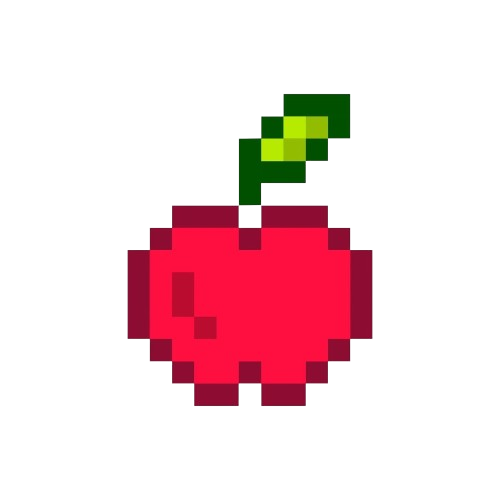
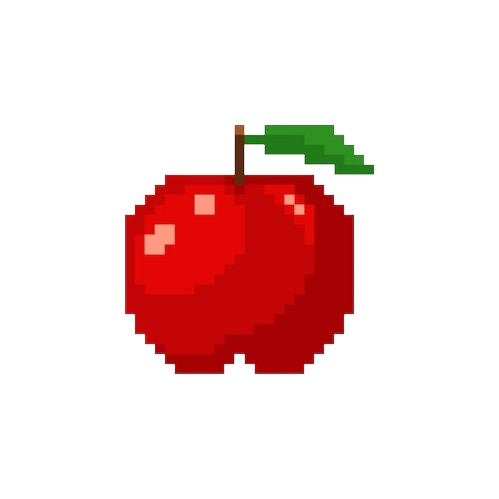
Assets Added

Changed region(s): [[0.2405, 0.1804, 0.7515, 0.8116]]

diff --git a/style.css b/style.css
@@ -42,7 +42,10 @@ body{
 }
 
 .food{
-    background-color: #d84242;
+    background-image: url("Assets/Imgs/apple.png");
+    width: 100%;
+    height: 100%;
+    background-size: 100%;
 }
 
 .entrance-message, .game-over-message, .final-score-message {
@@ -57,6 +60,19 @@ body{
     color: #344e41;
     
     font-size: 60px;
+}
+
+.entrance-message p {
+    margin-top: 285px;
+    border-top: 2px solid #344e41;
+}
+
+.entrance-message img{
+    position: absolute;
+    width: 300px;
+    margin-top: -150px;
+    opacity: 80%;
+
 }
 
 .final-score-message{
@@ -132,8 +148,8 @@ body{
 }
 
 .buttons button.selected{
-    background-color: #ff928b;
-    color: #ffffff;
+    background-color: #fec3a6;
+    color: #e06c9f;
 }
 
 /* Asthetics */
@@ -168,35 +184,40 @@ body{
     width: 90vmin;
     height: 7vmin;
     margin-top: -50px;
-    z-index: -1;
     border-top: 3px solid #588157;
+
+    display: flex;
+    justify-content: space-between;
+    flex-direction: row;
 }
 
-.btnele{
-    background-color: #d84242;
-    width: 10vmin;
+.btnele1{
+    background-color: #ffa62b;
+    width: 12vmin;
     height: 7vmin;
-    z-index: -2;
-    margin-top: -90px;
-    margin-left: 400px;
-    border: 4px solid #fb4d3d;
+    z-index: -1;
+    margin-left: 17%;
+    margin-top: -30px;
+    border: 4px solid #f9c74f;
 }
+
 .btnele2{
     background-color: #489fb5;
-    width: 10vmin;
+    width: 18vmin;
     height: 7vmin;
-    z-index: -2;
-    margin-top: -70px;
-    margin-right: 400px;
+    z-index: -1;
+    margin-right: 10%;
+    margin-top: -30px;
     border: 4px solid #82c0cc;
 }
+
 .btnele3{
-    background-color: #ffa62b;
-    width: 10vmin;
+    background-color: #d84242;
+    z-index: -1;
+    width: 18vmin;
     height: 7vmin;
-    z-index: -2;
-    margin-top: -62px;
-    margin-left: 200px;
-    border: 4px solid #f9c74f;
+    margin-top: -30px;
+    margin-right: 20%;
+    border: 4px solid #fb4d3d;
 }
 

diff --git a/index.html b/index.html
@@ -5,6 +5,7 @@
     <meta name="viewport" content="width=device-width, initial-scale=1.0">
     <title>Snake Game</title>
     <link rel="stylesheet" href="style.css">
+    <link rel="icon" href="Assets/Imgs/logo.png">
 </head>
 <body>
 
@@ -30,14 +31,16 @@
                 </div>
             </div>
         </div>
-            
+
     </div>
     <div class="console"></div>
-    <div class="console2"></div>
-    <div class="btnele"></div>
-    <div class="btnele2"></div>
-    <div class="btnele3"></div>
-
+    <div class="console2">
+        <div class="btnele1"></div>
+        <div style="display: flex; flex-direction: row;">
+            <div class="btnele2"></div>
+            <div class="btnele3"></div>
+        </div>
+    </div>
     
 
 

diff --git a/Scripts/game.js b/Scripts/game.js
@@ -26,7 +26,7 @@ function startGame() {
 
 // Function to display entrance message and set up event listener for Enter key press
 function showEntranceMessage() {
-    gameBoard.innerHTML = '<div class="entrance-message">Press ENTER to start</div>';
+    gameBoard.innerHTML = '<div class="entrance-message"><img src="Assets/Imgs/logo.png"><p>Press "ENTER" to start</p></div>';
     document.addEventListener('keydown', startGameKeyPressHandler);
 }
 

diff --git a/Scripts/snake.js b/Scripts/snake.js
@@ -41,6 +41,7 @@ export function draw(gameBoard){
         snakeElement.style.gridRowStart = segment.y;
         snakeElement.classList.add('snake');
         gameBoard.appendChild(snakeElement);
+        
     })
 }
 
